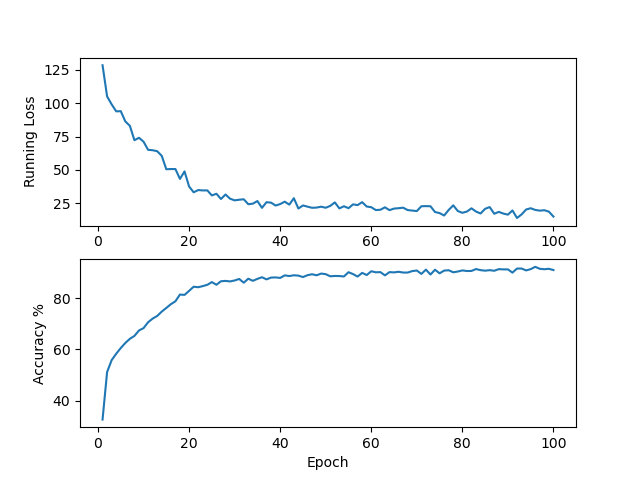
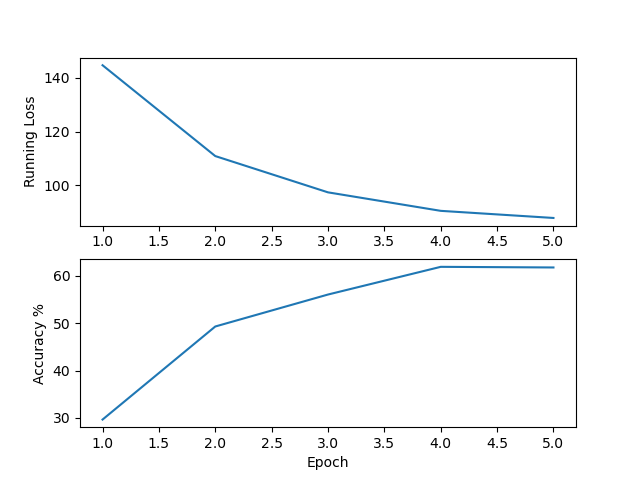
Tesed multiple modified LeNet models.

diff --git a/vehicle_classifier.py b/vehicle_classifier.py
@@ -7,15 +7,15 @@ from sklearn import metrics
 import Resources.helpers as helpers
 import Resources.data_acquisition as acquire
 import Resources.train as trainer
-import Models.LeNet5_A as model0
+import Models.LeNet5_D as model0
 
 def main():
     
     #adjustable parameters
-    batch_num = 6
-    epochs = 5
-    learningRate = 0.0001
-    nnet = model0.LeNet5A()# ---> Check import statement on change, and check data acquisition and model for no. of input channels. 
+    batch_num = 10
+    epochs = 20
+    learningRate = 0.0005
+    nnet = model0.LeNet5D()# ---> Check import statement on change, and check data acquisition and model for no. of input channels. 
     lossFunc = nn.CrossEntropyLoss()
     optimizerFunc = optim.Adam(nnet.parameters(), lr=learningRate, betas=(0.9, 0.99))
 

diff --git a/Models/LeNet5_D.py b/Models/LeNet5_D.py
@@ -11,7 +11,7 @@ import Resources.helpers as helpers
 class LeNet5D(nn.Module):
     def __init__(self):
         super(LeNet5D, self).__init__()
-        self.conv1 = nn.Conv2d(1, 30, 5)
+        self.conv1 = nn.Conv2d(3, 30, 5)
         self.pool = nn.MaxPool2d(2, 2)
         self.conv2 = nn.Conv2d(30, 50, 5)
         self.fc1 = nn.Linear(50 * 5 * 5, 572)

diff --git a/Models/LeNet5_B.py b/Models/LeNet5_B.py
@@ -3,9 +3,9 @@ import torch.nn.functional as F
 from torch import nn
 
 
-class LeNetB(nn.Module):
+class LeNet5B(nn.Module):
     def __init__(self):
-        super(LeNetB, self).__init__()
+        super(LeNet5B, self).__init__()
         self.conv1 = nn.Conv2d(3, 30, 5)
         self.pool = nn.MaxPool2d(2, 2)
         self.conv2 = nn.Conv2d(30, 50, 5)

diff --git a/README.md b/README.md
@@ -17,3 +17,7 @@ CIFAR-100:
 Total of 100 classes in the dataset, of which four classes will be used.
 Similarly, the 600 images will consist of 500 training images and 100 testing images.
 These images are also coloured and have dimensions of 32x32 pixels.
+
+
+**Lookup-table for interpreting confusion matricies:
+(class:row/col)  {car: 0, truck: 1, bicycle: 2, bus: 3, motorcycle: 4, pickup: 5}
